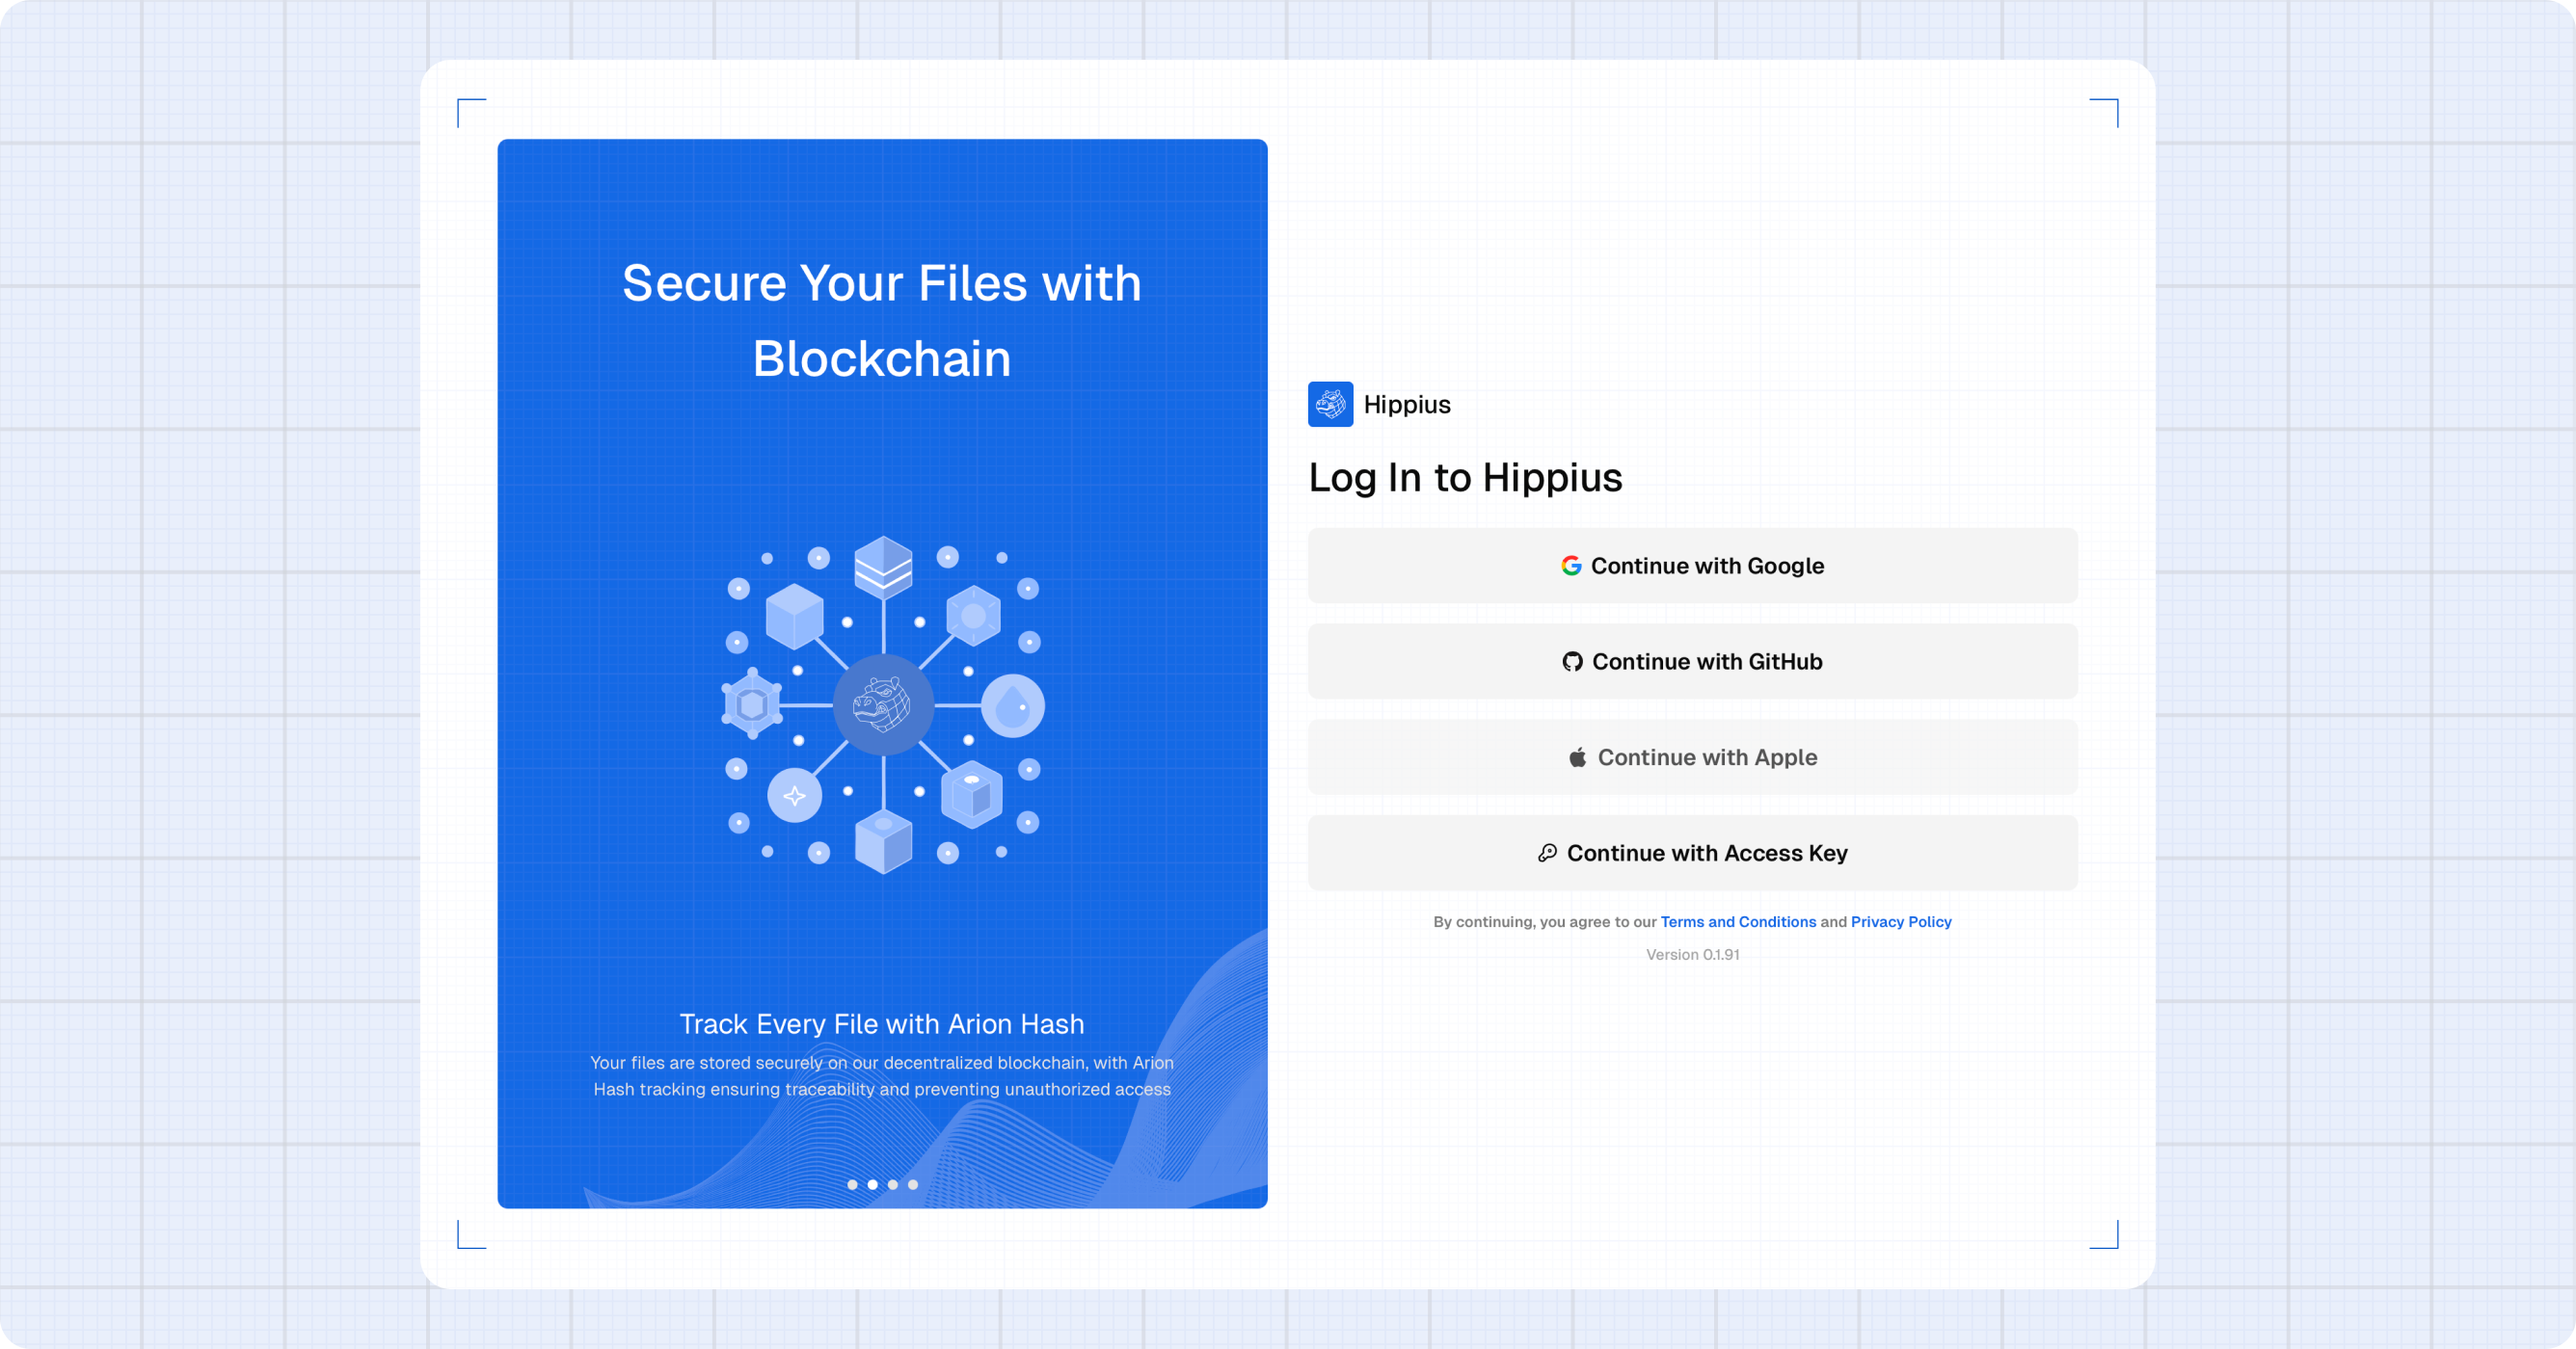
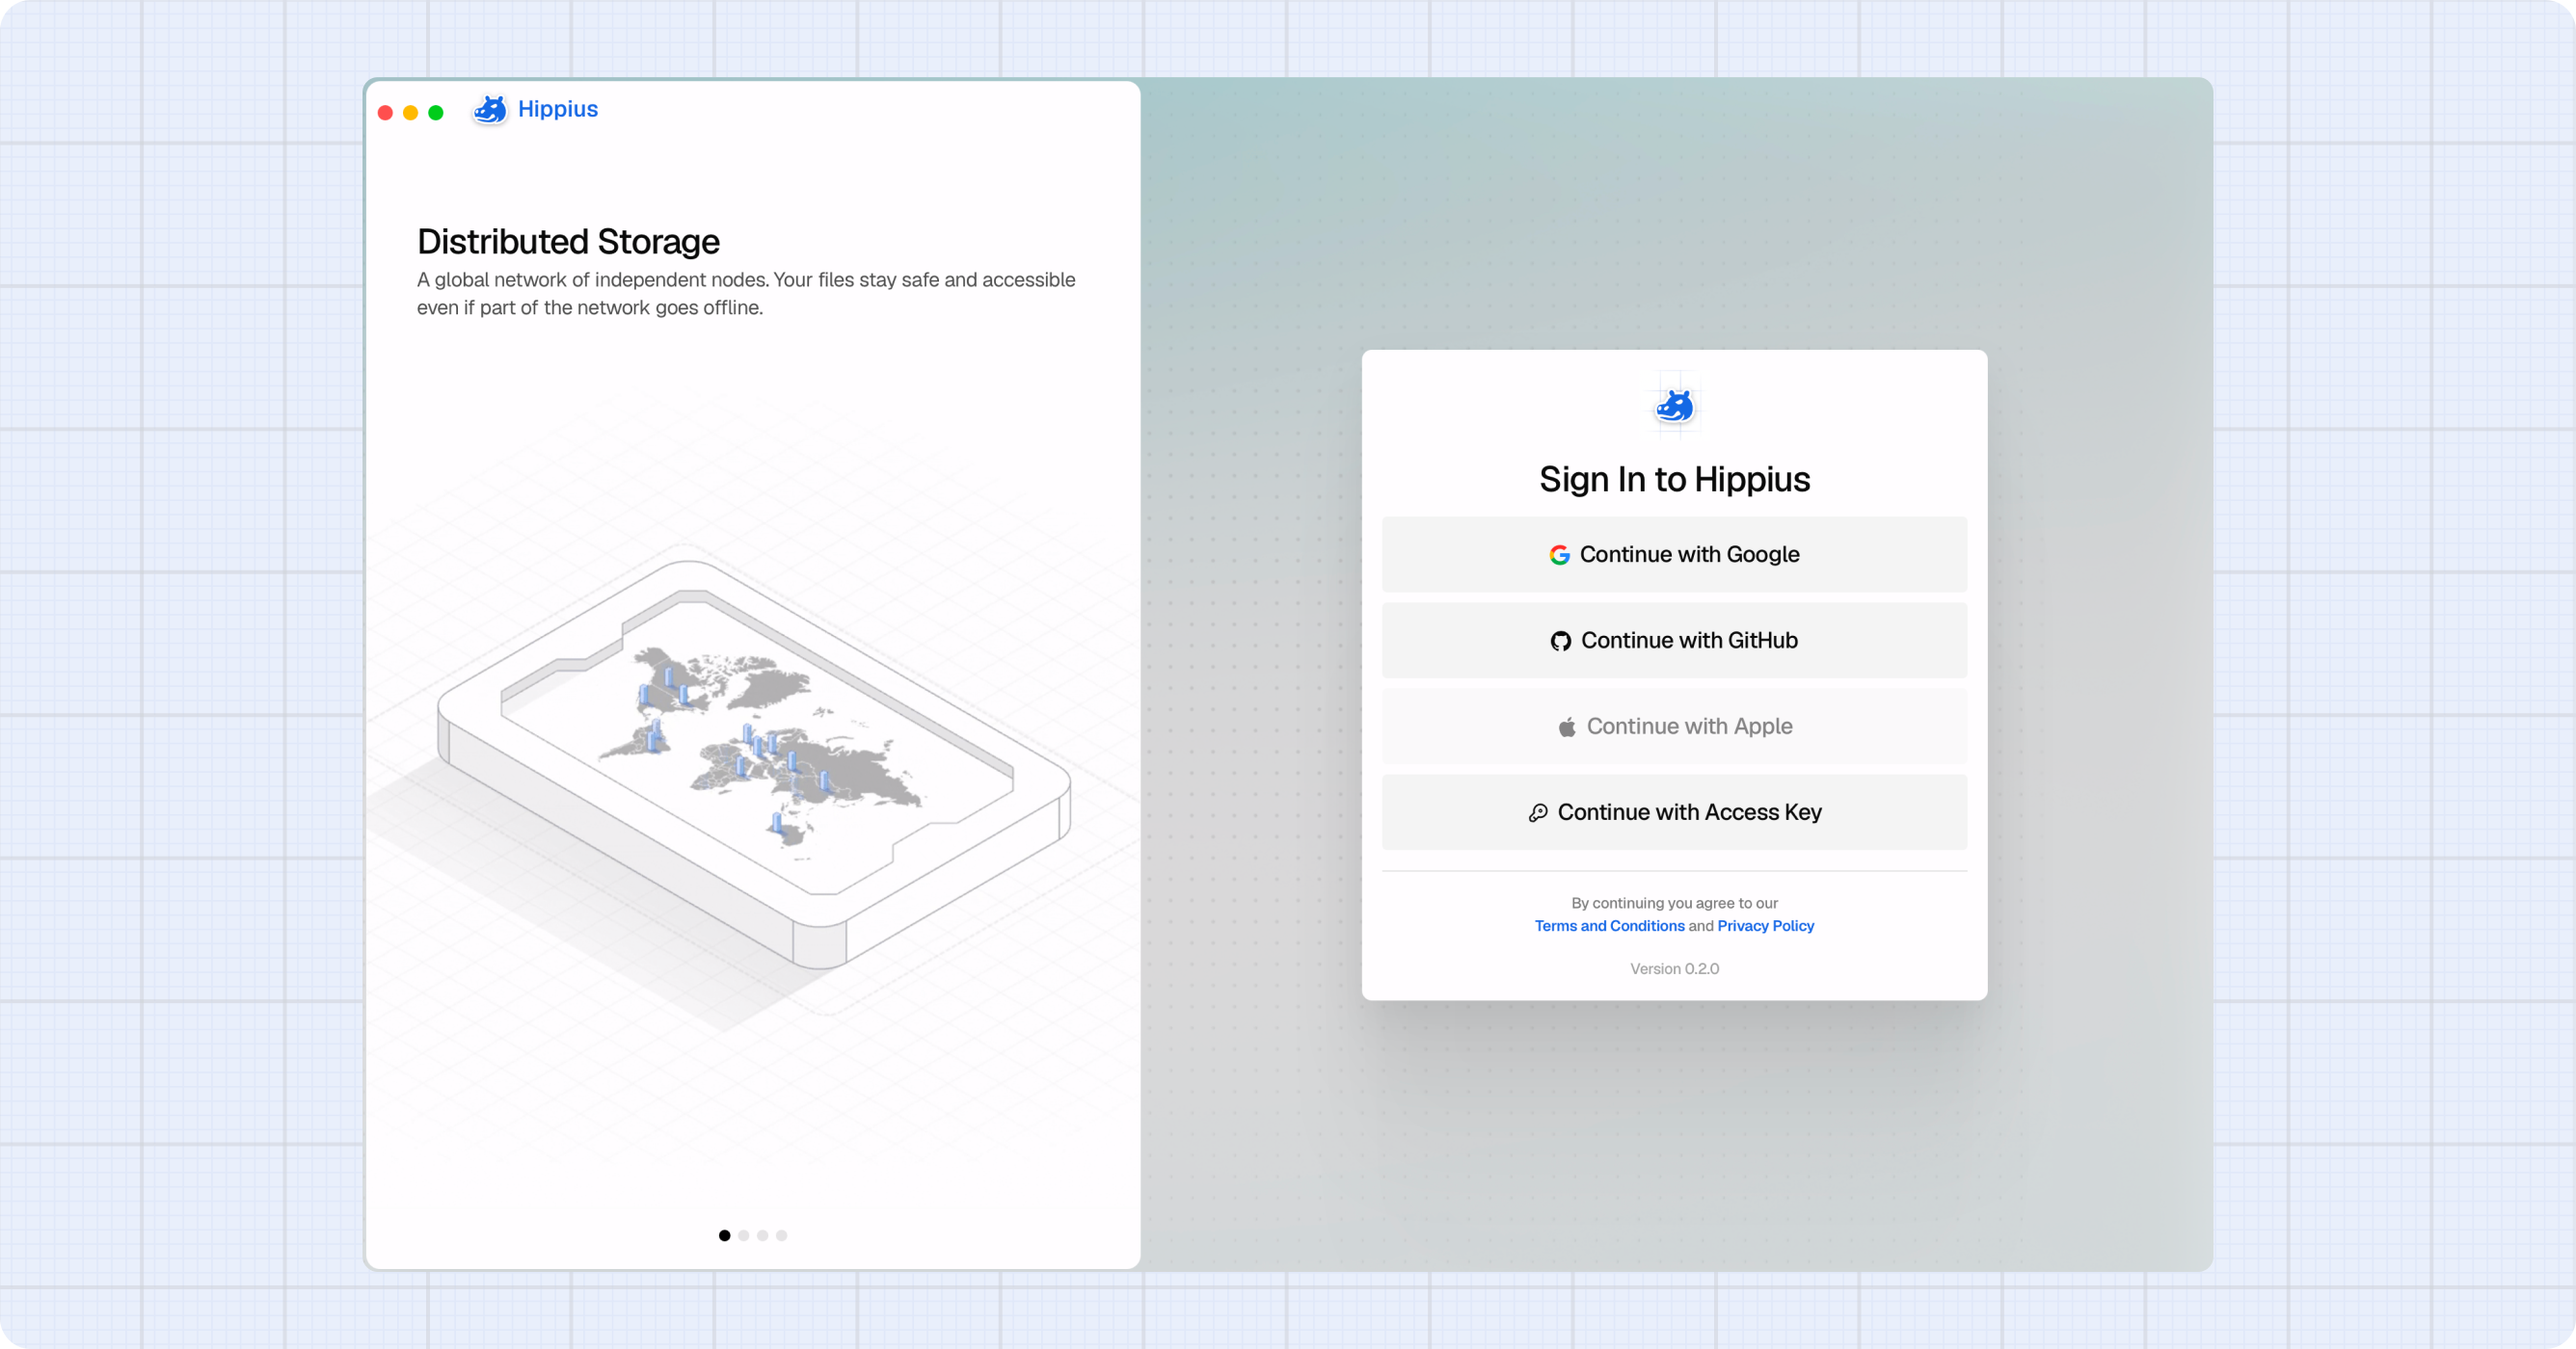
docs(desktop): update Using the App page and sync screenshots

diff --git a/docs/use/desktop/using-the-app.md b/docs/use/desktop/using-the-app.md
@@ -71,7 +71,7 @@ To add your first folder:
   <li>Your folder is added and syncing begins automatically.</li>
 </Ordered>
 
-![The FilesOnboarding screen showing the Local Sync Folders section with the Add Folder button and Sync from Other Devices section](/img/desktop/files-onboarding.png)
+![The FilesOnboarding screen showing the Local Sync Folders section with the Add Folder button and Sync from Other Devices section](/img/desktop/set-up-your-first-sync-folder.png)
 
 Any files you add to this folder will be encrypted on your device and synced to the Hippius network. Setting up sync here is optional — you can add folders later from Settings or by returning to this screen at any time.
 
@@ -81,7 +81,7 @@ Your unlock password was set during first login, so file encryption is configure
 
 Once a folder begins syncing, the **Drive** page opens directly into that folder's contents. To return to the sync setup screen, click **Local** in the breadcrumb at the top of the page.
 
-![The SyncFolderBreadcrumb showing the Local segment that returns to the sync setup screen](/img/desktop/drive-local-breadcrumb.png)
+![Folder Contents](/img/desktop/folder-contents.png)
 
 From the **Local** view you can add more sync folders, sync folders from your other devices, and manage existing ones — the same actions available under **Settings → Sync & Storage**. You can therefore manage syncing in whichever way is more convenient: directly from the Drive page, or from Settings.
 
@@ -101,7 +101,7 @@ In the **Add Local Folder** dialog:
   <li>Click <BgStyledText>Add Folder</BgStyledText> to confirm. Syncing starts automatically.</li>
 </Ordered>
 
-![The AddLocalFolderDialog showing folder selection and the Add Folder button ](/img/desktop/add-local-folder-dialog.png)
+![Add More Folders ](/img/desktop/add-local-folder.png)
 
 Each folder syncs independently and shows its own status (**Syncing**, **Paused**, or **Error**).
 
@@ -150,7 +150,7 @@ The widget has three forms:
   <li><strong>Minified</strong>: Click the <strong>✕</strong> to shrink the widget into a compact circular progress ring. The ring keeps tracking progress and shows a checkmark when complete; click it to restore the full widget.</li>
 </Unordered>
 
-![The Sync Queue widget expanded, showing the per-file list with status badges](/img/desktop/sync-progress-widget.png)
+![The Sync Queue widget expanded, showing the per-file list with status badges](/img/desktop/syncing-progress-widget.png)
 
 :::tip
 Dismissing the widget with **✕** does not stop syncing — it only minimizes the widget to the progress ring. The ring also appears whenever the sidebar is collapsed, and the full card reopens automatically when a new sync starts.
@@ -195,7 +195,7 @@ When you have more than one sync folder, switch between them from the **Local** 
   <li>The Drive page opens that folder, and the breadcrumb updates to show your location.</li>
 </Ordered>
 
-![The Local view showing the synced folder cards used to switch between folders](/img/desktop/drive-local-folders.png)
+![The Local view showing the synced folder cards used to switch between folders](/img/desktop/switching-between-sync-folders.png)
 
 :::tip
 To narrow down the files within the folder you are viewing, use the **File Type**, **Size**, and **Date Range** filters or the search box at the top of the Drive page.
